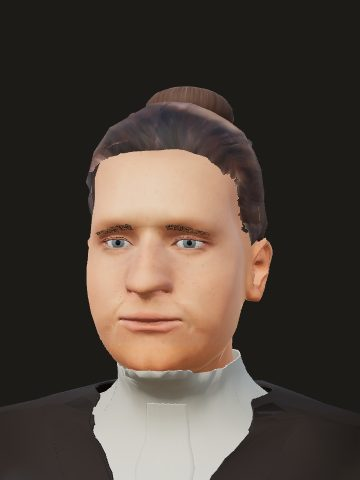
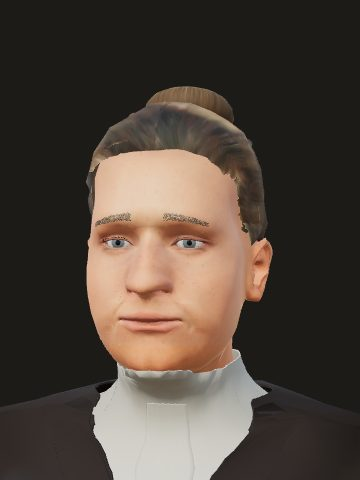
T-3553: The Greys' brows where their sheets set them, and Sarah's hair ash (#1990)
* T-3553: William and Sarah Grey drawn from the owner's stand-in portraits

No photograph of either Grey is known; the owner supplied two sepia
portraits as their 1904 likenesses. Their faces are fitted to about 400
face-landmark points each (MediaPipe), tied to the body's face vertices by
rendering each rest face at five turns (tools/face_landmark_correspondence.py,
data/humans/variation/mediapipe_hm08_landmarks.json). Both are drawn at the
portraits' apparent ages (about 50 and 45; owner's choice), their records
keep the census ages. Build, hair (William's long swept-back hair and full
beard; Sarah's knot turned up to the crown from the lady's own bun), brows
and cloth colours follow the pictures. Cards label each picture "STAND-IN,
NOT" the person; the sources are tier 5, cross_check, and every reading is
graded reconstructed (docs/LIBERTIES.md).

Claude-Session: https://claude.ai/code/session_01YWBQdZGjWaE4FT9A1KPnpp

* T-3553: William's lips and chin clear of his beard, its line up the cheek; Sarah's high cheekbones, fine features, thin lips

Owner, 2026-11-13: his moustache and beard covered his lips and left no
space round his chin, and his beard line did not follow the portrait's;
her cheekbones are higher and her features finer than drawn.

- human-hair.js: a facial piece's region may carry a top line (top:
  [[x, y], ...] cm) its roots stay below, feathered at it.
- The moustache roots between nose and lip and falls to the mouth's
[…]

Changed region(s): [[0.4583, 0.4375, 0.5806, 0.5], [0.2444, 0.4375, 0.3667, 0.5]]

diff --git a/chicago/4d/renderers/web/js/human-hair-styles.js b/chicago/4d/renderers/web/js/human-hair-styles.js
@@ -38,10 +38,12 @@ export const HAIR_CUTS = Object.freeze({
   // likeness, not a picture of her): the cleared bun hair drawn up from the face all round, its
   // bun turned up over the back of the head to sit as a knot high on the crown
   // (`bun_to_crown_deg`, human-hair.js bunToCrown). Like drawn_back_bun_1904 the cap carries its
-  // own fine strands and grows no scalp cards; brows and lashes still grow from her face.
+  // own fine strands and grows no scalp cards; brows and lashes still grow from her face. Its
+  // `cap_tint` takes the cap's brown to the sheet's ash: set by the hair's tone against the
+  // forehead's on the sheet and on a render (2026-11-13), where the cap had read dark and violet.
   swept_up_topknot_1904: Object.freeze({
     flow: 'swept_up', part_cm: 0, lengths_cm: Object.freeze({ top: 6, side: 5, back: 4 }),
-    knot_cm: Object.freeze({ up: 10, back: 8 }), scalp_cards: false, bun_to_crown_deg: 62, bun_knot_scale: .7, cap_tint: Object.freeze([1.1, 1.3, 1.75]),
+    knot_cm: Object.freeze({ up: 10, back: 8 }), scalp_cards: false, bun_to_crown_deg: 62, bun_knot_scale: .7, cap_tint: Object.freeze([1.4, 1.9, 1.75]),
     lift_mm: Object.freeze({ root: .6, tip: 1.4 }), density: 1, curl: .04, hang: false,
   }),
   // A woman's hair of the 1900s worn as a real bun (T-3434): her cap is a cleared bun hair
@@ -231,21 +233,21 @@ export const FACIAL_HAIR = Object.freeze({
     length_cm: .45, fall: -.1, fall_ends: Object.freeze([-1, .35]), outward: 1, taper: .35, curl: .04, even: .7, exact: true,
     lift_mm: Object.freeze({ root: .12, tip: .25 }), width_mm: .55, cover: 2.2, spread: .3,
   }),
-  // T-3553: the brows as the Greys' stand-in portraits set them, measured against the eyes on
-  // the portrait and on a render of the fitted face by the same landmark model: Sarah's fine
-  // brows sit 1.25 cm lower over the eyes than brows_fine draws them on the lady's body, and
-  // William's full brows 1.45 cm lower than brows_full, on the brow bone close over the eyes as his
-  // turnaround sheet shows them (re-measured 2026-11-13 on the faces refitted to the side views, and
-  // lowered again when drawn beside the sheet, where they floated a finger's width above the lids).
+  // T-3553: the brows as the Greys' stand-in sheets set them, measured from the pupils on the
+  // owner's square-on turnaround views (the eyes' centres are the face frame's origin): Sarah's
+  // fine brows 1 to 1.5 cm above them, 0.45 cm lower than brows_fine draws them on the lady's
+  // body, and William's full brows 0.8 to 1.4 cm, on the brow bone close over the eyes. (Owner,
+  // 2026-11-13, of a lower placement: "her eyebrows are on her lids", "a little higher", and of
+  // his: "double eyebrows", a band so tall it ran over the brow bone's fold in two rows.)
   brows_fine_low_1904: Object.freeze({
-    region_cm: Object.freeze({ x: [1.3, 4.6], y: [.27, .67], z_min: -1.5, droop: .55 }), facing: 'front',
+    region_cm: Object.freeze({ x: [1.3, 4.6], y: [1, 1.5], z_min: -1.5, droop: .55 }), facing: 'front',
     length_cm: .45, fall: -.1, fall_ends: Object.freeze([-1, .35]), outward: 1, taper: .35, curl: .04, even: .7, exact: true,
     lift_mm: Object.freeze({ root: .12, tip: .25 }), width_mm: .55, cover: 2.2, spread: .3,
   }),
   // His are drawn hair by hair, spaced evenly and lying flatter (`even`, `exact`), so they read
   // as the portrait's soft sandy brows rather than a painted band.
   brows_full_high_1904: Object.freeze({
-    region_cm: Object.freeze({ x: [1.1, 5], y: [0, .75], z_min: -1.8, droop: .6 }), facing: 'front',
+    region_cm: Object.freeze({ x: [1.1, 5], y: [.8, 1.4], z_min: -1.8, droop: .6 }), facing: 'front',
     length_cm: .7, fall: -.05, fall_ends: Object.freeze([-.8, .4]), outward: 1, taper: .3, curl: .08, even: .7, exact: true,
     lift_mm: Object.freeze({ root: .15, tip: .45 }), width_mm: .5, cover: 3.2, spread: .45, jitter_deg: 10,
   }),
